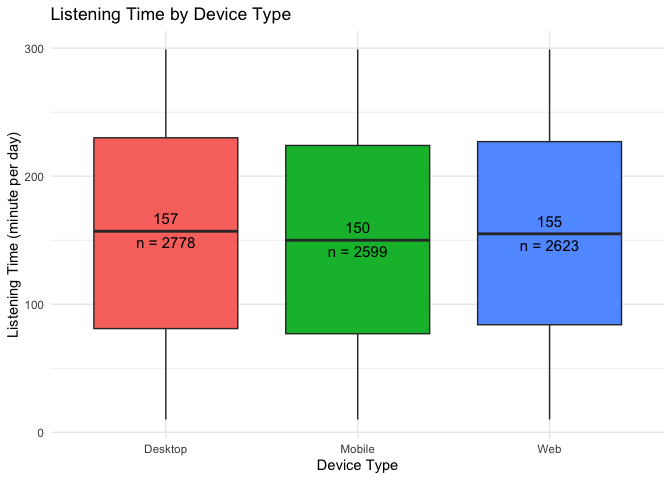
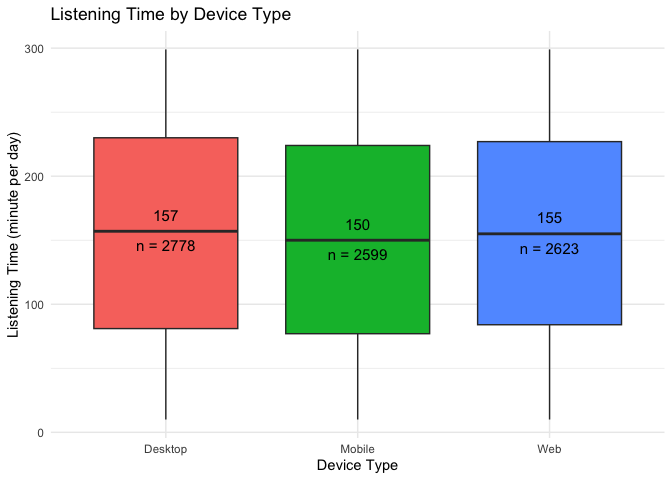
remove another comment + update style

diff --git a/README.md b/README.md
@@ -294,7 +294,7 @@ ggplot(
   # Layer 2: The internal labels (count + percentage)
   geom_text(
     aes(label = label_text), 
-    position = position_stack(vjust = 0.5), # Center label in each stack
+    position = position_stack(vjust = 0.5),
     color = "black", 
     size = 3
   ) +
@@ -356,14 +356,14 @@ ggplot(data_with_age_groups,
   # Add the MEDIAN label
   stat_summary(fun.data = fun_median_label, 
                geom = "text", 
-               vjust = -0.7,  # Nudge it up
+               vjust = -1.0,
                color = "black", 
                size = 3.5) +
   
   # Add the COUNT label
   stat_summary(fun.data = fun_n_label, 
                geom = "text", 
-               vjust = 1.5,
+               vjust = 1.8,
                color = "black",
                size = 3.5) +
   
@@ -397,7 +397,7 @@ ggplot(data,
   # Add the COUNT label
   stat_summary(fun.data = fun_n_label, 
                geom = "text", 
-               vjust = 1.5,
+               vjust = 1.8,
                color = "black",
                size = 4) +
   
@@ -424,14 +424,14 @@ ggplot(data,
   # Add the MEDIAN label
   stat_summary(fun.data = fun_median_label, 
                geom = "text", 
-               vjust = -0.7,
+               vjust = -1.0,
                color = "black", 
                size = 4) +
   
   # Add the COUNT label
   stat_summary(fun.data = fun_n_label, 
                geom = "text", 
-               vjust = 1.5,
+               vjust = 1.8,
                color = "black",
                size = 4) +
   
@@ -455,17 +455,17 @@ ggplot(data,
        aes(x = device_type, y = songs_played_per_day, fill = device_type)) +
   geom_boxplot() +
   
- # Add the MEDIAN label (places it just ABOVE the median line)
+ # Add the MEDIAN label
   stat_summary(fun.data = fun_median_label, 
                geom = "text", 
-               vjust = -0.7,
+               vjust = -1.0,
                color = "black", 
                size = 3.5) +
   
-  # Add the COUNT label (places it just BELOW the median line)
+  # Add the COUNT label
   stat_summary(fun.data = fun_n_label, 
                geom = "text", 
-               vjust = 1.5,
+               vjust = 1.8,
                color = "black",
                size = 3.5) +
   
